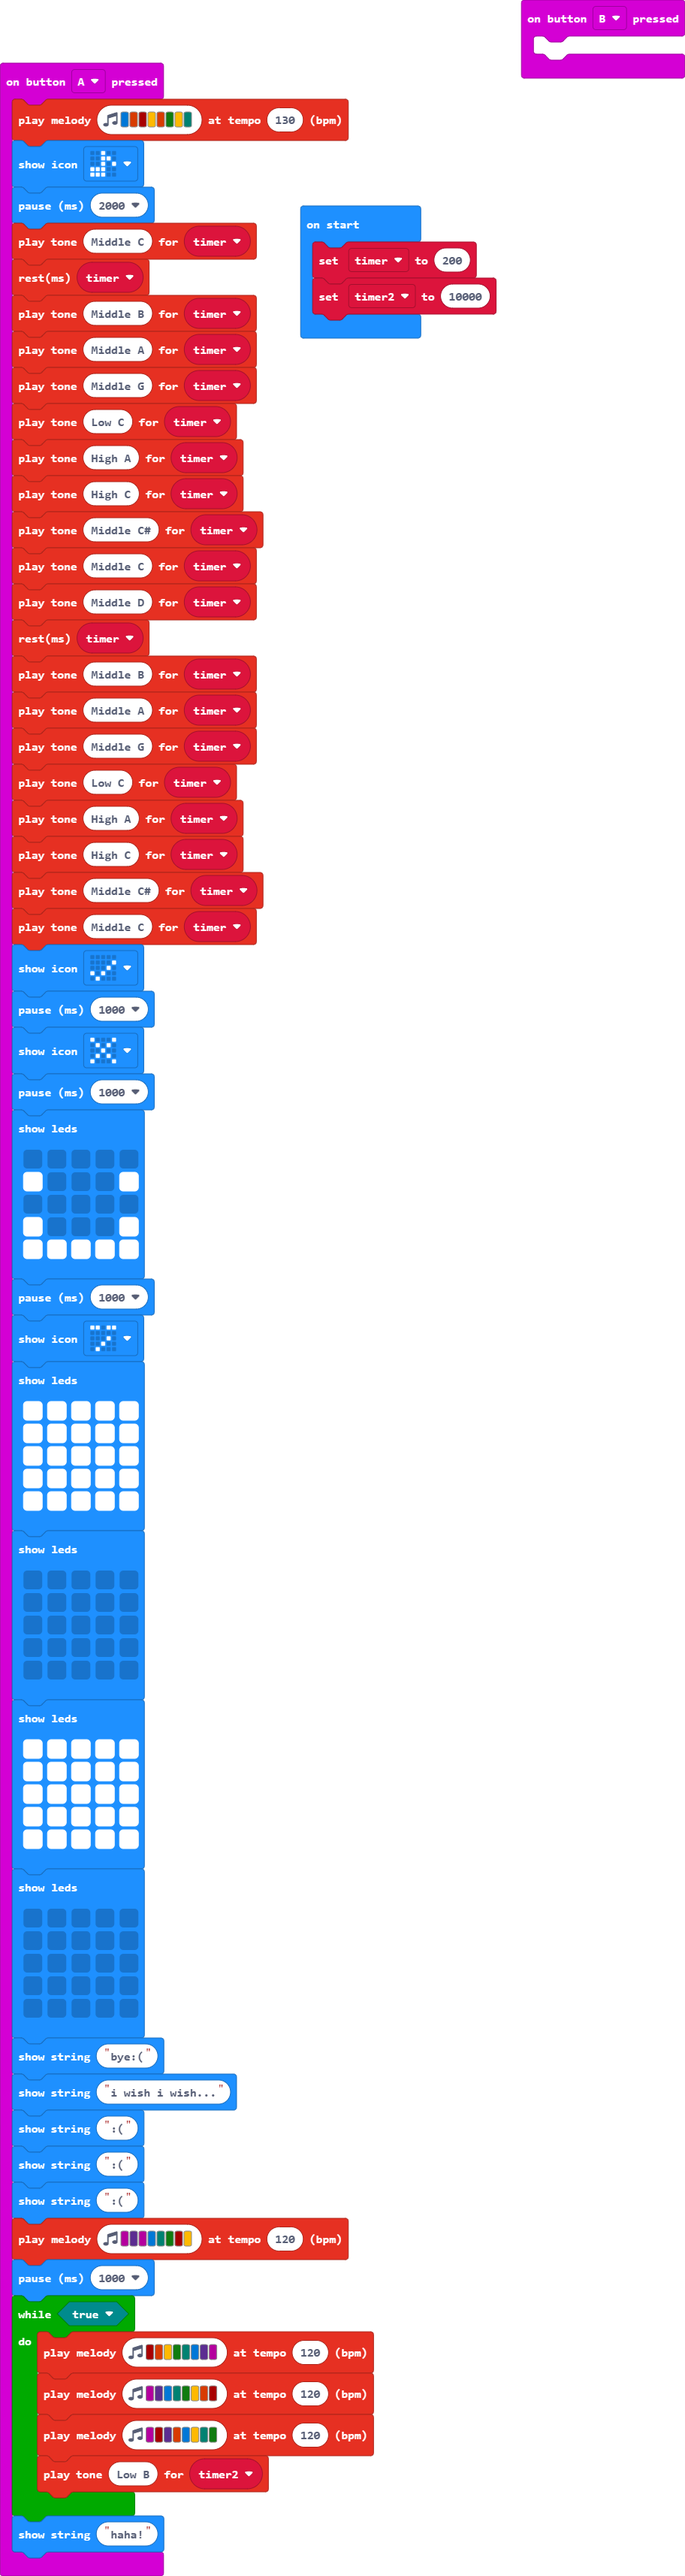
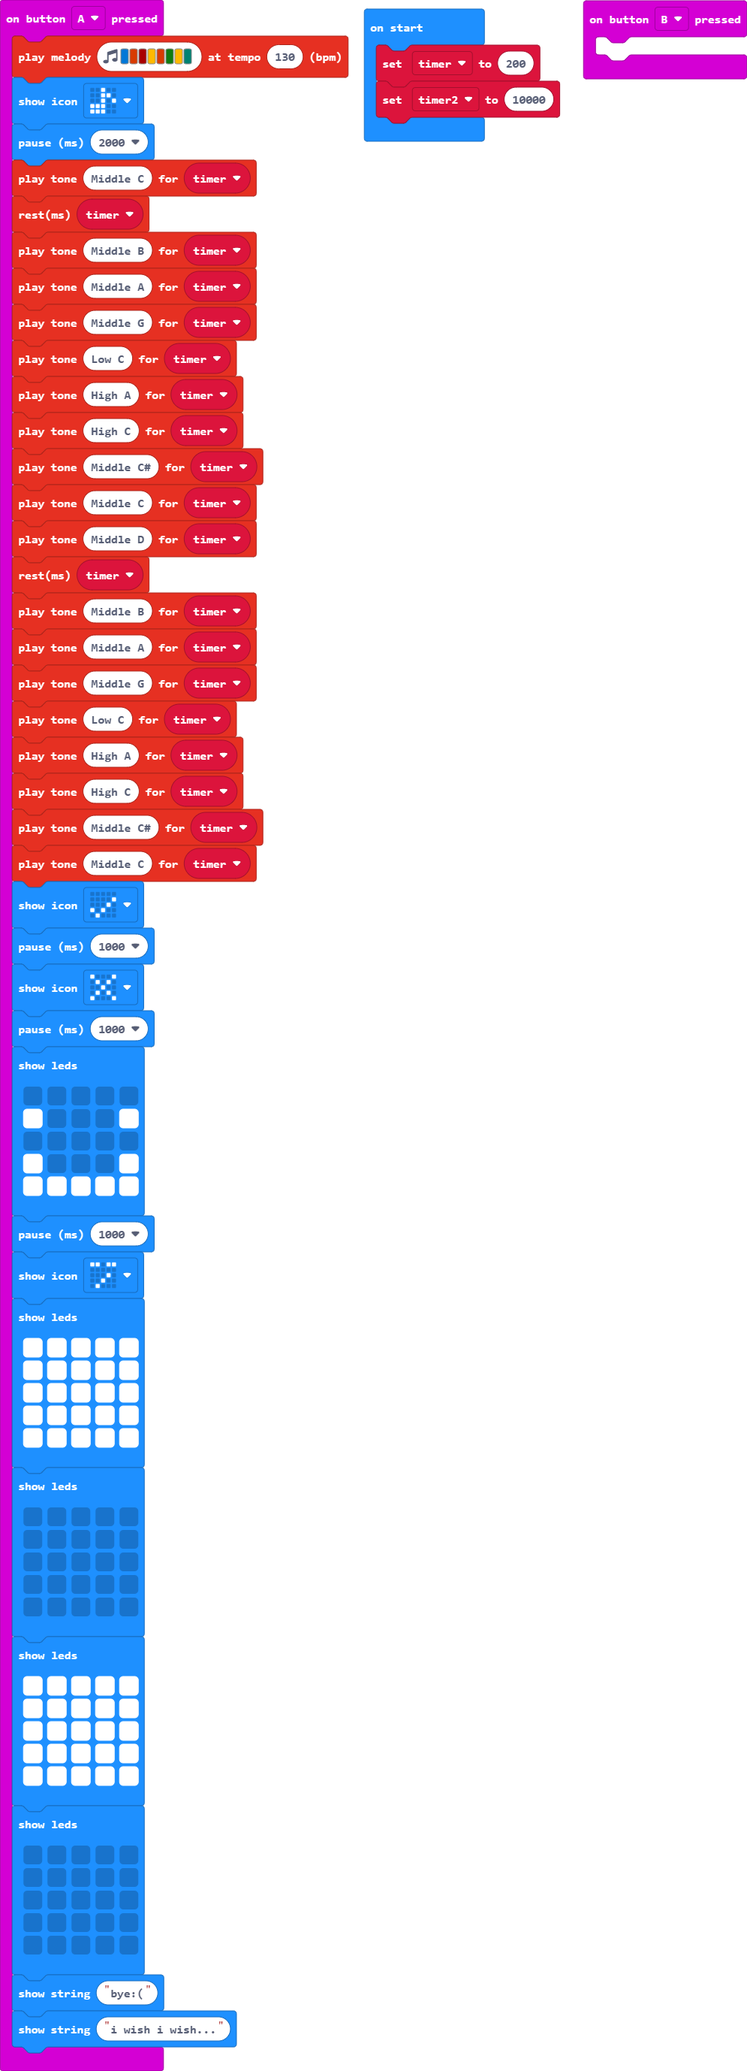
Update main.blocks, main.ts

Changed region(s): [[0.0, 0.0, 1.0, 1.0]]

diff --git a/main.ts b/main.ts
@@ -65,23 +65,10 @@ input.onButtonPressed(Button.A, function () {
         `)
     basic.showString("bye:(")
     basic.showString("i wish i wish...")
-    basic.showString(":(")
-    basic.showString(":(")
-    basic.showString(":(")
-    music.playMelody("C D C E F G C5 A ", 120)
-    basic.pause(1000)
-    while (true) {
-        music.playMelody("C5 B A G F E D C ", 120)
-        music.playMelody("C D E F G A B C5 ", 120)
-        music.playMelody("C C5 D B E A F G ", 120)
-        music.playTone(247, timer2)
-    }
-    basic.showString("haha!")
 })
 input.onButtonPressed(Button.B, function () {
 	
 })
-let timer2 = 0
 let timer = 0
 timer = 200
-timer2 = 10000
+let timer2 = 10000
